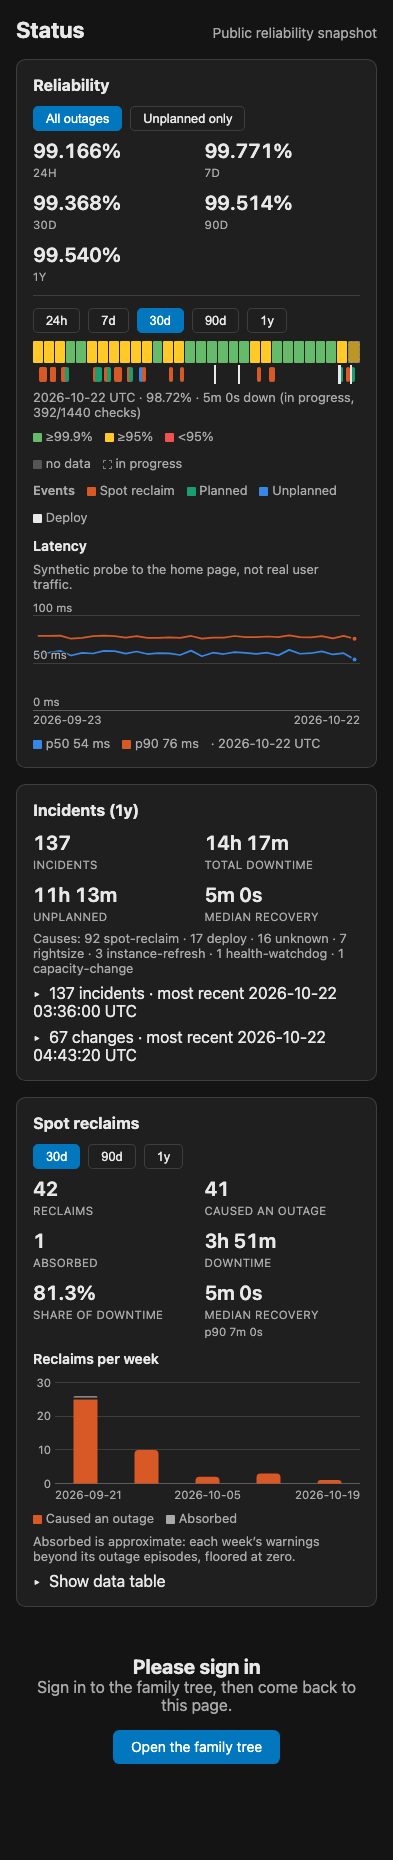
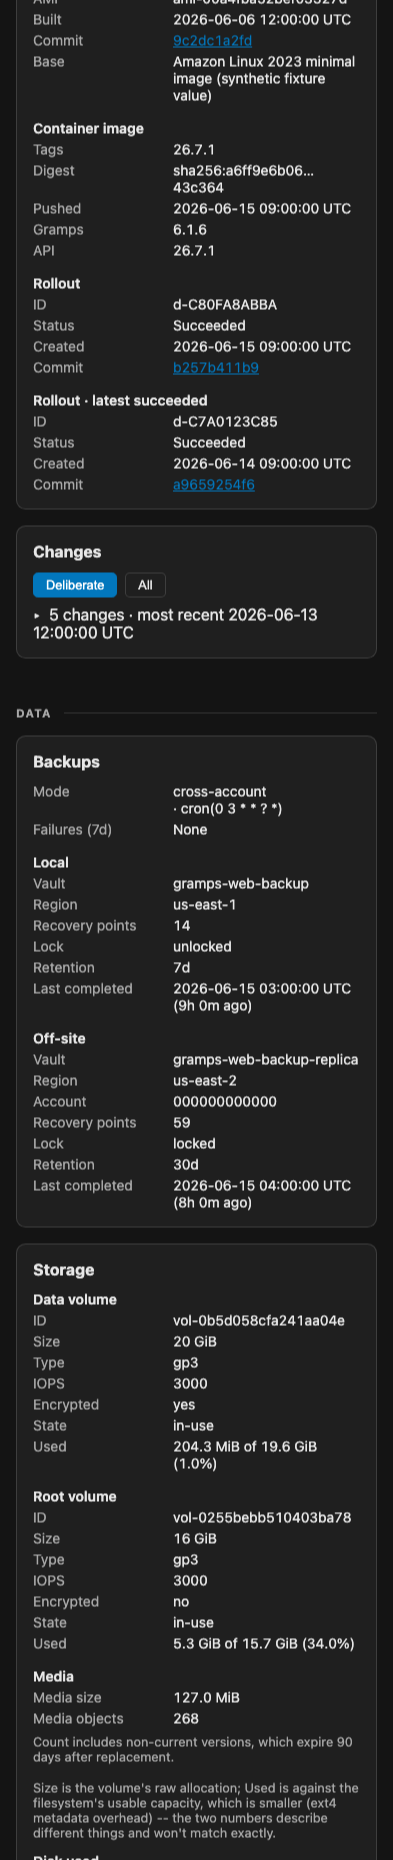
Update status page docs, screenshots, and changelog

diff --git a/docs/status-page.md b/docs/status-page.md
@@ -32,9 +32,9 @@ Instance IDs, instance types, zones, deployment IDs, and descriptions stay priva
 
 | Source | Written by | Read for |
 |---|---|---|
-| `SiteUp` and latency metrics | The availability Lambda probes the site through CloudFront every minute. | Uptime tiles, the strip, latency, and the exact edges of every outage. |
+| `SiteUp` and latency metrics | The availability Lambda probes the site through CloudFront every minute. | Uptime tiles, the strip (a cell's readout names its incidents), latency, and the exact edges of every outage. |
 | Episodes log | The availability Lambda appends one JSON line per completed outage. | Incidents, causes, recovery timing. |
-| Change log | The availability Lambda appends one line per finished CodeDeploy deployment and ASG instance refresh, from EventBridge events. | Changes and the event markers on the strip. |
+| Change log | The availability Lambda appends one line per finished CodeDeploy deployment and ASG instance refresh, from EventBridge events. | Changes. |
 | Spot interruption log | An EventBridge rule writes every EC2 Spot Interruption Warning to a log group (365-day retention). | Spot reclaim counts. |
 | Cause markers | SSM parameters holding `{time, instance_id}`, written by the host watchdogs and `scripts/backup.sh`. | Cause attribution. |
 | CodeDeploy and Auto Scaling | Read directly by the status Lambda for the live panels, and by the availability Lambda for cause attribution. | Deployment, host, and the pulled causes below. |
@@ -65,17 +65,28 @@ The `planned` flag is true for `rightsize`, `deploy`, `instance-refresh`, `capac
 
 A change record is marked as having caused an outage when an episode of the same kind overlaps it within 90 seconds. A deployment that overlaps an episode of another cause, or an Auto Scaling launch deployment, is not blamed.
 
-## Spot reclaim panel
+## Incidents card
 
-Shown when the deployment has Spot activity. The range is 30 days, 90 days, or one year, selected in the browser. Weeks start on Monday, UTC.
+Ranges are 24 hours, 7 days, 30 days, 90 days, and one year, the same as the reliability card. The chart stacks incidents per cell by cause class. Arrows pan the window within the last year in the browser, including on the public route. The table lists the incidents in the window.
+
+### Spot
+
+A subsection of the card, shown when the deployment has Spot activity. It follows the card's range.
 
 | Figure | Definition |
 |---|---|
 | Reclaims | Spot interruption warnings in range. |
 | Caused an outage | Incidents with cause `spot-reclaim` in range. |
-| Absorbed | Per week, warnings minus `spot-reclaim` incidents, floored at zero, summed. Approximate, because a warning cannot be tied to its incident. |
-| Downtime | Total duration of the `spot-reclaim` incidents. |
-| Share of downtime | That downtime over the downtime of every incident in range. |
-| Median recovery, p90 | Median and nearest-rank 90th percentile of `spot-reclaim` incident durations. |
+| Share of downtime | Downtime of the `spot-reclaim` incidents over the downtime of every incident in range. |
 
-The authenticated page adds two views that need instance details. The recovery split shows the median capacity wait (outage start to replacement launch) against the median boot-to-serve time (launch to recovery); it needs at least three incidents carrying both timings. The pool table groups reclaims by the lost instance's type and zone, with the median instance lifetime and the most recent reclaim, folding the tail into an "Other" row.
+The authenticated page adds two views that need instance details. The recovery split shows the median capacity wait (outage start to replacement launch) against the median boot-to-serve time (launch to recovery); it appears once at least three incidents carry both timings. The Pools table groups reclaims by the lost instance's type and zone, with the median instance lifetime and the most recent reclaim, folding the tail into an "Other" row.
+
+## Changes card
+
+Under Delivery. The Deliberate|All toggle defaults to Deliberate: user and rollback deployments and instance refreshes. All adds deployments created by Auto Scaling. The toggle is hidden when no other changes exist, which includes the public route. Each row shows time, change, outcome, duration, and whether it caused an outage.
+
+## Layout and loading
+
+Sections are Service (Reliability, Incidents), Delivery (Deployment, Changes), Data (Backups, Storage), Runtime (Host, Assistant), and Spend (Cost). A panel that times out shows "Didn't load in time." with a Retry button that refetches it.
+
+The Lambdas read the episodes and Spot logs with CloudWatch Logs Insights, once per log group per request. The status role needs `logs:StartQuery` and `logs:GetQueryResults` on those log groups.

diff --git a/CHANGELOG.md b/CHANGELOG.md
@@ -4,6 +4,22 @@ All notable changes are recorded here. The format follows [Keep a Changelog](htt
 
 ## [Unreleased]
 
+### Added
+
+- Status page: a Retry button on panels that time out.
+- Status page: a Changes card under Delivery, with a Deliberate|All toggle.
+
+### Changed
+
+- Status page: the Lambdas read logs with CloudWatch Logs Insights, one query per log group per request, which fixes panels timing out.
+- IAM, shipped in this module: the status role gains `logs:StartQuery` and `logs:GetQueryResults` and loses `logs:FilterLogEvents`. Consumers need this module version for the status page to load.
+- Status page: Spot is a subsection of the Incidents card, which takes the page's five ranges and pans in the browser. The Absorbed tile and the weekly table are removed.
+- Status page: the sections are Service, Delivery, Data, Runtime, and Spend.
+
+### Removed
+
+- Status page: the events lane. A strip cell's readout names its incidents.
+
 ## [1.0.0] - 2026-10-22
 
 First stable release. The inputs and outputs below are the supported interface.
